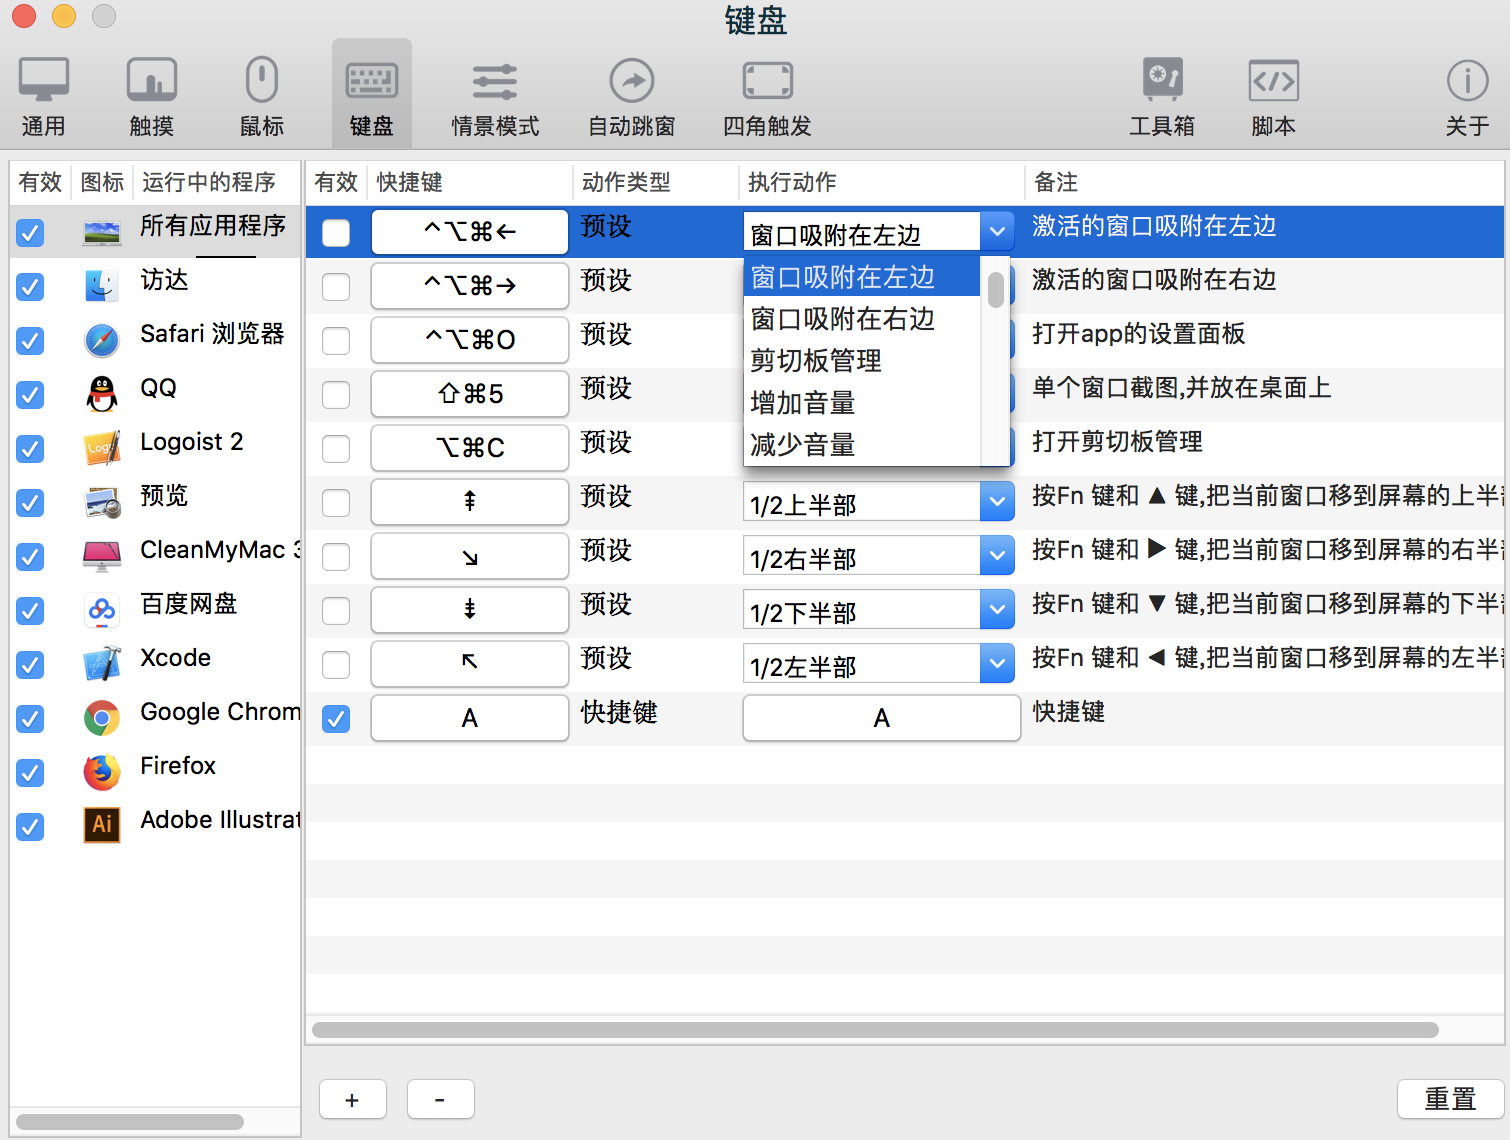
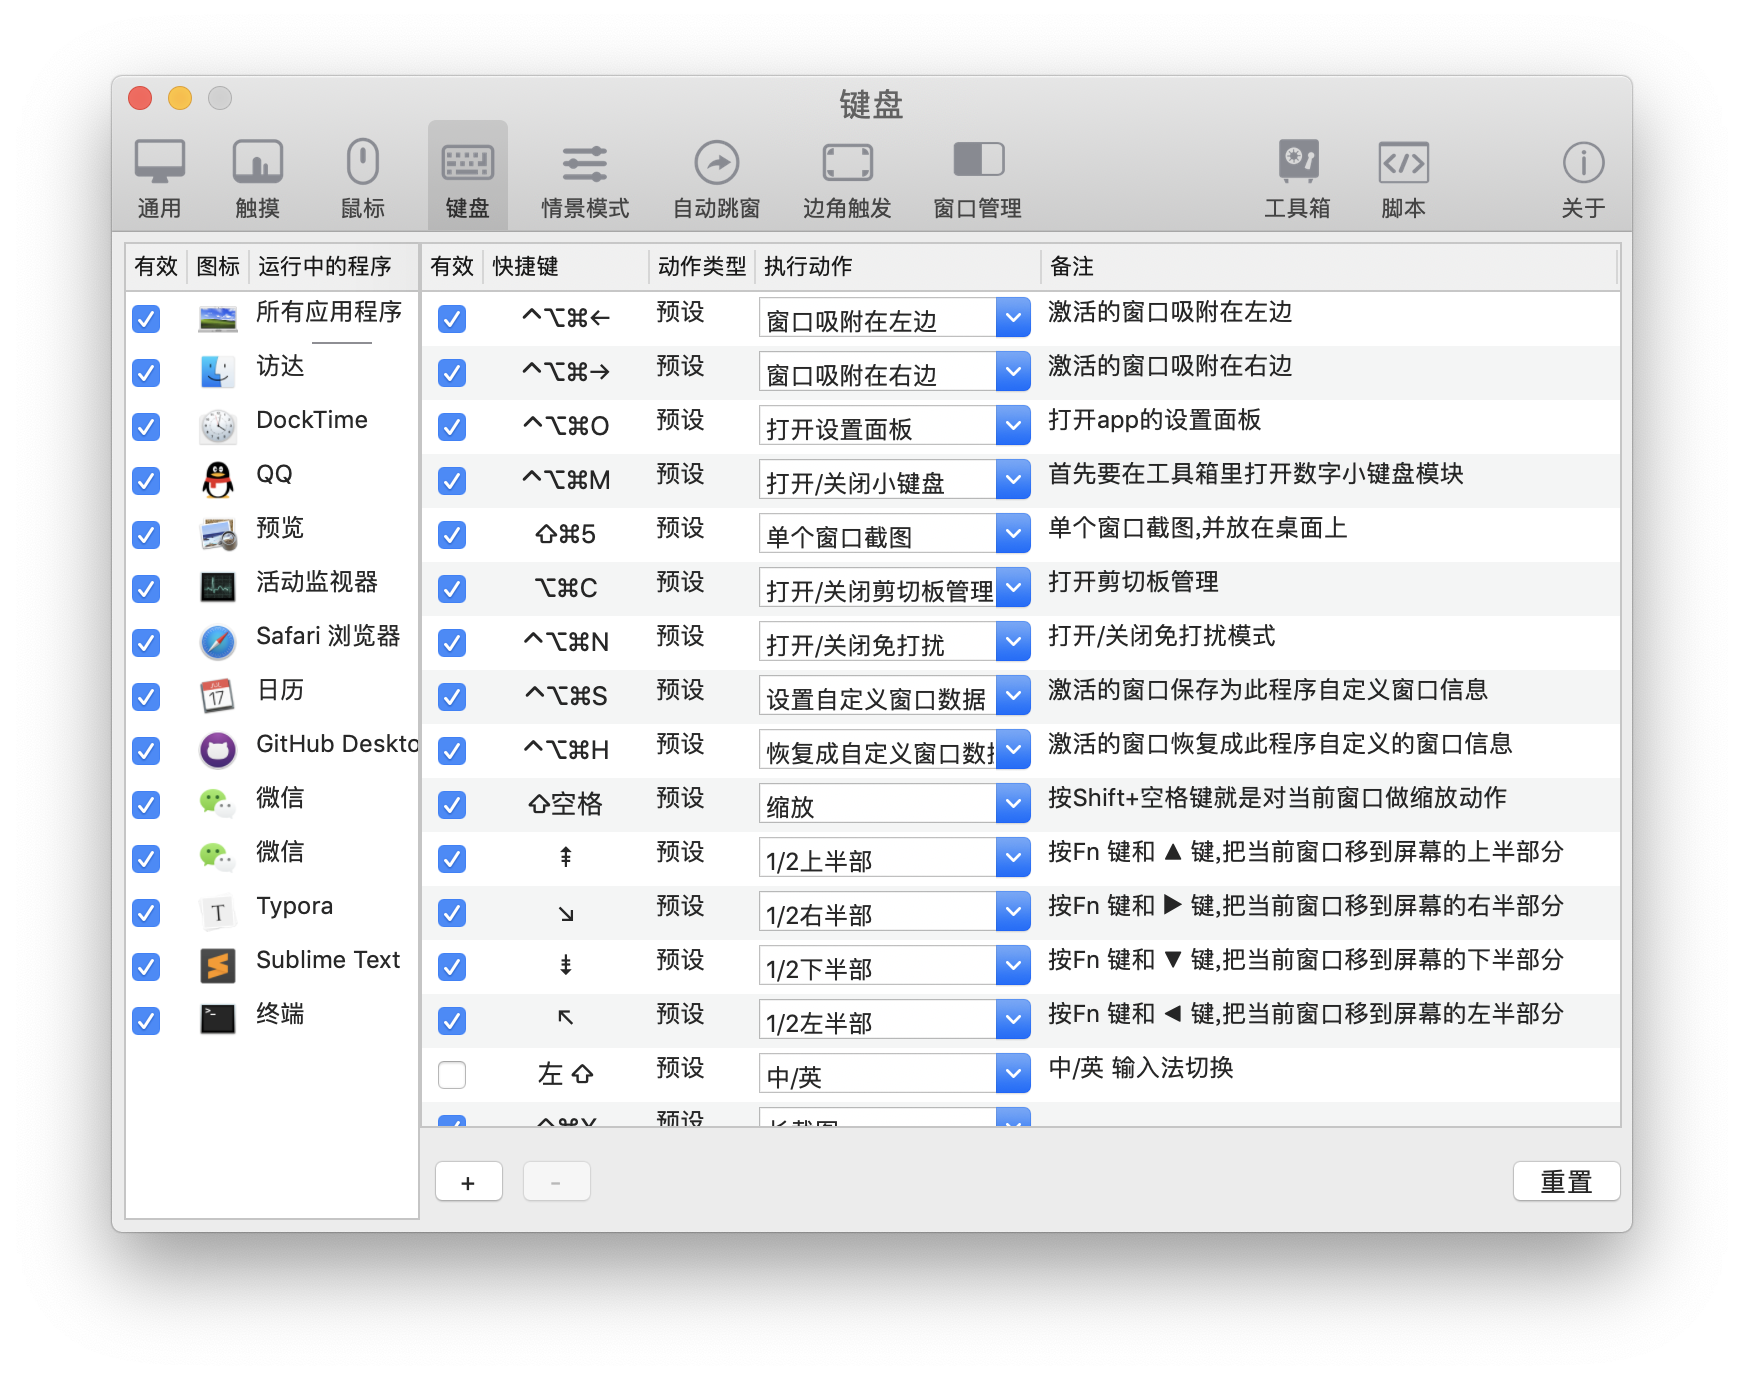
更新图片

diff --git a/betterandbetter.rb b/betterandbetter.rb
@@ -1,0 +1,16 @@
+cask 'betterandbetter' do
+  # version '1.6.31 alpha'
+  version :latest
[1 lines of base64/hex data omitted]
+  sha256 :no_check
+
+  # github.com/suliveevil/homebrew-BetterAndBetter/releases/download/v1.6.28/BetterAndBetter.app.dmg was verified as official when first introduced to the cask
+  url 'https://github.com/songhao/BetterAndBetter/releases/download/v1.6.28/BetterAndBetter.app.dmg'
+  name 'BetterAndBetter'
+  name '越来越好'
+  homepage 'http://better365.cn/'
+
+  depends_on macos: '>= :sierra'
+
+  app 'BetterAndBetter.app'
+end

diff --git a/readme.md b/readme.md
@@ -1,6 +1,6 @@
 # BetterAndBetter
 
-<span><a href="https://www.better365.cn" title="官网"><img src="https://github.com/songhao/BetterAndBetter/blob/master/resources/img/BetterAndBetter.png" width="15" alt="BetterAndBetter 官网" /></a></span> BetterAndBetter 是一款集合众多优秀功能的 macOS 软件。包含🖱鼠标、⌨键盘、触摸板、情景模式、蓝牙解锁、自动切换输入法、:sound: 打字音效等功能，出色的创意和强大的功能将极大提升你的 macOS 使用体验。
+BetterAndBetter 是一款集合众多优秀功能的 macOS 软件。包含🖱鼠标、⌨键盘、触摸板、情景模式、蓝牙解锁、自动切换输入法、:sound: 打字音效等功能，出色的创意和强大的功能将极大提升你的 macOS 使用体验。
 
 >   不断的修正 bug ，请及时更新。
 
@@ -123,7 +123,7 @@
 令人惊叹的快捷操作，闪电触发，一键抵达。
 
 <p float="left">
-   <bt><img src='https://github.com/songhao/BetterAndBetter/blob/master/resources/img/四角触发.jpg' width="800"/>
+   <bt><img src='https://github.com/songhao/BetterAndBetter/blob/master/resources/img/边角触发.png' width="800"/>
 </p>
 </details> 
 
